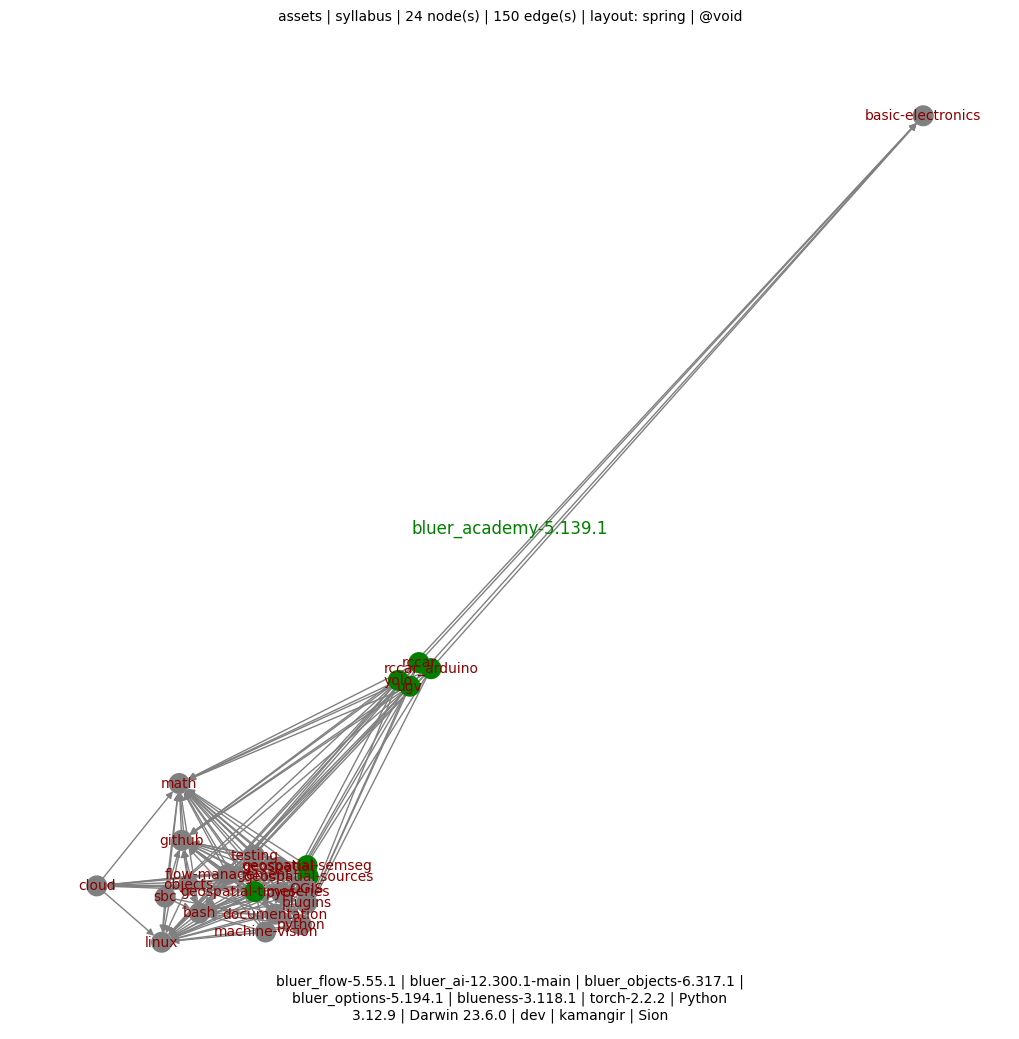
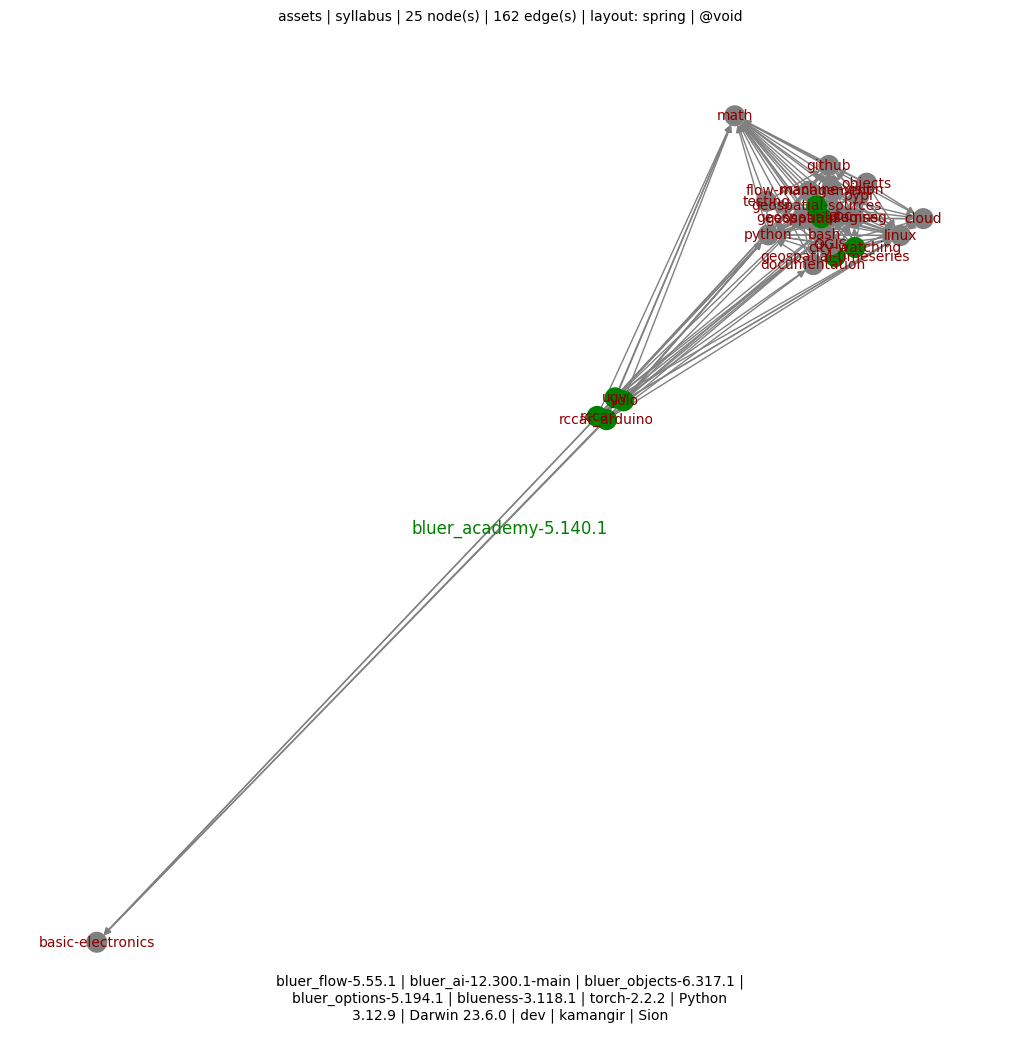
++ - kamangir/bolt#746

Changed region(s): [[0.0304, 0.0924, 0.9127, 0.924], [0.8518, 0.0924, 0.9431, 0.1232]]

diff --git a/bluer_academy/academy/syllabus/__init__.py b/bluer_academy/academy/syllabus/__init__.py
@@ -2,6 +2,7 @@ from bluer_academy.academy.classes.syllabus import Syllabus
 from bluer_academy.academy.syllabus import (
     bash,
     basic_electronics,
+    city_watching,
     cloud,
     documentation,
     flow_management,
@@ -32,6 +33,7 @@ syllabus = Syllabus(
         for module in [
             bash,
             basic_electronics,
+            city_watching,
             cloud,
             documentation,
             flow_management,

diff --git a/bluer_academy/__init__.py b/bluer_academy/__init__.py
@@ -4,7 +4,7 @@ ICON = "📐"
 
 DESCRIPTION = f"{ICON} an academy for practical AI in Iran."
 
-VERSION = "5.139.1"
+VERSION = "5.140.1"
 
 REPO_NAME = "bluer-academy"
 

diff --git a/bluer_academy/docs/academy/README.md b/bluer_academy/docs/academy/README.md
@@ -4,34 +4,35 @@
 
 ## syllabus
 
-| capstone project? | duration (hours) | duration, including requirements (hours) | depends on: | [bas...](./syllabus/basic-electronics.md) | [math](./syllabus/math.md) | [linux](./syllabus/linux.md) | [cloud](./syllabus/cloud.md) | [github](./syllabus/github.md) | [python](./syllabus/python.md) | [bash](./syllabus/bash.md) | [doc...](./syllabus/documentation.md) | [flo...](./syllabus/flow-management.md) | [mac...](./syllabus/machine-vision.md) | [obj...](./syllabus/objects.md) | [pypi](./syllabus/pypi.md) | [sbc](./syllabus/sbc.md) | [tes...](./syllabus/testing.md) | [plu...](./syllabus/plugins.md) | [rccar](./syllabus/rccar.md) | [ugv](./syllabus/ugv.md) | [geo...](./syllabus/geospatial.md) | [rcc...](./syllabus/rccar_arduino.md) | [yolo](./syllabus/yolo.md) | [QGIS](./syllabus/QGIS.md) | [geo...](./syllabus/geospatial-sources.md) | [geo...](./syllabus/geospatial-semseg.md) | [geo...](./syllabus/geospatial-timeseries.md) |
-|-|-|-|-|-|-|-|-|-|-|-|-|-|-|-|-|-|-|-|-|-|-|-|-|-|-|-|-|
-|  | 6.0 | 6.0 | [basic-electronics](./syllabus/basic-electronics.md) |  |  |  |  |  |  |  |  |  |  |  |  |  |  |  |  |  |  |  |  |  |  |  |  |
-|  | 3.0 | 3.0 | [math](./syllabus/math.md) |  |  |  |  |  |  |  |  |  |  |  |  |  |  |  |  |  |  |  |  |  |  |  |  |
-|  | 3.0 | 6.0 | [linux](./syllabus/linux.md) |  | ℹ |  |  |  |  |  |  |  |  |  |  |  |  |  |  |  |  |  |  |  |  |  |  |
-|  | 6.0 | 12.0 | [cloud](./syllabus/cloud.md) |  | ℹ | ℹ |  |  |  |  |  |  |  |  |  |  |  |  |  |  |  |  |  |  |  |  |  |
-|  | 3.0 | 9.0 | [github](./syllabus/github.md) |  | ℹ | ℹ |  |  |  |  |  |  |  |  |  |  |  |  |  |  |  |  |  |  |  |  |  |
-|  | 12.0 | 21.0 | [python](./syllabus/python.md) |  | ℹ | ℹ |  | ℹ |  |  |  |  |  |  |  |  |  |  |  |  |  |  |  |  |  |  |  |
-|  | 3.0 | 24.0 | [bash](./syllabus/bash.md) |  | ℹ | ℹ |  | ℹ | ℹ |  |  |  |  |  |  |  |  |  |  |  |  |  |  |  |  |  |  |
-|  | 3.0 | 27.0 | [documentation](./syllabus/documentation.md) |  | ℹ | ℹ |  | ℹ | ℹ | ℹ |  |  |  |  |  |  |  |  |  |  |  |  |  |  |  |  |  |
-|  | 2.0 | 32.0 | [flow-management](./syllabus/flow-management.md) |  | ℹ | ℹ | ℹ | ℹ | ℹ | ℹ |  |  |  |  |  |  |  |  |  |  |  |  |  |  |  |  |  |
-|  | 12.0 | 36.0 | [machine-vision](./syllabus/machine-vision.md) |  | ℹ | ℹ |  | ℹ | ℹ | ℹ |  |  |  |  |  |  |  |  |  |  |  |  |  |  |  |  |  |
-|  | 3.0 | 33.0 | [objects](./syllabus/objects.md) |  | ℹ | ℹ | ℹ | ℹ | ℹ | ℹ |  |  |  |  |  |  |  |  |  |  |  |  |  |  |  |  |  |
-|  | 3.0 | 27.0 | [pypi](./syllabus/pypi.md) |  | ℹ | ℹ |  | ℹ | ℹ | ℹ |  |  |  |  |  |  |  |  |  |  |  |  |  |  |  |  |  |
-|  | 3.0 | 27.0 | [sbc](./syllabus/sbc.md) |  | ℹ | ℹ |  | ℹ | ℹ | ℹ |  |  |  |  |  |  |  |  |  |  |  |  |  |  |  |  |  |
-|  | 6.0 | 30.0 | [testing](./syllabus/testing.md) |  | ℹ | ℹ |  | ℹ | ℹ | ℹ |  |  |  |  |  |  |  |  |  |  |  |  |  |  |  |  |  |
-|  | 3.0 | 36.0 | [plugins](./syllabus/plugins.md) |  | ℹ | ℹ |  | ℹ | ℹ | ℹ | ℹ |  |  |  |  |  | ℹ |  |  |  |  |  |  |  |  |  |  |
-| 📐 | 3.0 | 36.0 | [rccar](./syllabus/rccar.md) | ℹ | ℹ | ℹ |  | ℹ | ℹ | ℹ | ℹ |  |  |  |  |  |  |  |  |  |  |  |  |  |  |  |  |
-| 📐 | 12.0 | 57.0 | [ugv](./syllabus/ugv.md) | ℹ | ℹ | ℹ |  | ℹ | ℹ | ℹ |  |  | ℹ |  |  | ℹ |  |  |  |  |  |  |  |  |  |  |  |
-|  | 6.0 | 51.0 | [geospatial](./syllabus/geospatial.md) |  | ℹ | ℹ | ℹ | ℹ | ℹ | ℹ | ℹ |  |  | ℹ |  |  | ℹ | ℹ |  |  |  |  |  |  |  |  |  |
-| 📐 | 6.0 | 42.0 | [rccar_arduino](./syllabus/rccar_arduino.md) | ℹ | ℹ | ℹ |  | ℹ | ℹ | ℹ | ℹ |  |  |  |  |  |  |  | ℹ |  |  |  |  |  |  |  |  |
-| 📐 | 3.0 | 60.0 | [yolo](./syllabus/yolo.md) | ℹ | ℹ | ℹ |  | ℹ | ℹ | ℹ |  |  | ℹ |  |  | ℹ |  |  |  | ℹ |  |  |  |  |  |  |  |
-|  | 3.0 | 54.0 | [QGIS](./syllabus/QGIS.md) |  | ℹ | ℹ | ℹ | ℹ | ℹ | ℹ | ℹ |  |  | ℹ |  |  | ℹ | ℹ |  |  | ℹ |  |  |  |  |  |  |
-| 📐 | 6.0 | 60.0 | [geospatial-sources](./syllabus/geospatial-sources.md) |  | ℹ | ℹ | ℹ | ℹ | ℹ | ℹ | ℹ |  |  | ℹ |  |  | ℹ | ℹ |  |  | ℹ |  |  | ℹ |  |  |  |
-| 📐 | 6.0 | 78.0 | [geospatial-semseg](./syllabus/geospatial-semseg.md) |  | ℹ | ℹ | ℹ | ℹ | ℹ | ℹ | ℹ |  | ℹ | ℹ |  |  | ℹ | ℹ |  |  | ℹ |  |  | ℹ | ℹ |  |  |
-| 📐 | 6.0 | 80.0 | [geospatial-timeseries](./syllabus/geospatial-timeseries.md) |  | ℹ | ℹ | ℹ | ℹ | ℹ | ℹ | ℹ | ℹ | ℹ | ℹ |  |  | ℹ | ℹ |  |  | ℹ |  |  | ℹ | ℹ |  |  |
+| capstone project? | duration (hours) | duration, including requirements (hours) | depends on: | [bas...](./syllabus/basic-electronics.md) | [math](./syllabus/math.md) | [linux](./syllabus/linux.md) | [cloud](./syllabus/cloud.md) | [github](./syllabus/github.md) | [python](./syllabus/python.md) | [bash](./syllabus/bash.md) | [doc...](./syllabus/documentation.md) | [flo...](./syllabus/flow-management.md) | [mac...](./syllabus/machine-vision.md) | [obj...](./syllabus/objects.md) | [pypi](./syllabus/pypi.md) | [sbc](./syllabus/sbc.md) | [tes...](./syllabus/testing.md) | [plu...](./syllabus/plugins.md) | [rccar](./syllabus/rccar.md) | [ugv](./syllabus/ugv.md) | [geo...](./syllabus/geospatial.md) | [rcc...](./syllabus/rccar_arduino.md) | [yolo](./syllabus/yolo.md) | [QGIS](./syllabus/QGIS.md) | [cit...](./syllabus/city-watching.md) | [geo...](./syllabus/geospatial-sources.md) | [geo...](./syllabus/geospatial-semseg.md) | [geo...](./syllabus/geospatial-timeseries.md) |
+|-|-|-|-|-|-|-|-|-|-|-|-|-|-|-|-|-|-|-|-|-|-|-|-|-|-|-|-|-|
+|  | 6.0 | 6.0 | [basic-electronics](./syllabus/basic-electronics.md) |  |  |  |  |  |  |  |  |  |  |  |  |  |  |  |  |  |  |  |  |  |  |  |  |  |
+|  | 3.0 | 3.0 | [math](./syllabus/math.md) |  |  |  |  |  |  |  |  |  |  |  |  |  |  |  |  |  |  |  |  |  |  |  |  |  |
+|  | 3.0 | 6.0 | [linux](./syllabus/linux.md) |  | ℹ |  |  |  |  |  |  |  |  |  |  |  |  |  |  |  |  |  |  |  |  |  |  |  |
+|  | 6.0 | 12.0 | [cloud](./syllabus/cloud.md) |  | ℹ | ℹ |  |  |  |  |  |  |  |  |  |  |  |  |  |  |  |  |  |  |  |  |  |  |
+|  | 3.0 | 9.0 | [github](./syllabus/github.md) |  | ℹ | ℹ |  |  |  |  |  |  |  |  |  |  |  |  |  |  |  |  |  |  |  |  |  |  |
+|  | 12.0 | 21.0 | [python](./syllabus/python.md) |  | ℹ | ℹ |  | ℹ |  |  |  |  |  |  |  |  |  |  |  |  |  |  |  |  |  |  |  |  |
+|  | 3.0 | 24.0 | [bash](./syllabus/bash.md) |  | ℹ | ℹ |  | ℹ | ℹ |  |  |  |  |  |  |  |  |  |  |  |  |  |  |  |  |  |  |  |
+|  | 3.0 | 27.0 | [documentation](./syllabus/documentation.md) |  | ℹ | ℹ |  | ℹ | ℹ | ℹ |  |  |  |  |  |  |  |  |  |  |  |  |  |  |  |  |  |  |
+|  | 2.0 | 32.0 | [flow-management](./syllabus/flow-management.md) |  | ℹ | ℹ | ℹ | ℹ | ℹ | ℹ |  |  |  |  |  |  |  |  |  |  |  |  |  |  |  |  |  |  |
+|  | 12.0 | 36.0 | [machine-vision](./syllabus/machine-vision.md) |  | ℹ | ℹ |  | ℹ | ℹ | ℹ |  |  |  |  |  |  |  |  |  |  |  |  |  |  |  |  |  |  |
+|  | 3.0 | 33.0 | [objects](./syllabus/objects.md) |  | ℹ | ℹ | ℹ | ℹ | ℹ | ℹ |  |  |  |  |  |  |  |  |  |  |  |  |  |  |  |  |  |  |
+|  | 3.0 | 27.0 | [pypi](./syllabus/pypi.md) |  | ℹ | ℹ |  | ℹ | ℹ | ℹ |  |  |  |  |  |  |  |  |  |  |  |  |  |  |  |  |  |  |
+|  | 3.0 | 27.0 | [sbc](./syllabus/sbc.md) |  | ℹ | ℹ |  | ℹ | ℹ | ℹ |  |  |  |  |  |  |  |  |  |  |  |  |  |  |  |  |  |  |
+|  | 6.0 | 30.0 | [testing](./syllabus/testing.md) |  | ℹ | ℹ |  | ℹ | ℹ | ℹ |  |  |  |  |  |  |  |  |  |  |  |  |  |  |  |  |  |  |
+|  | 3.0 | 36.0 | [plugins](./syllabus/plugins.md) |  | ℹ | ℹ |  | ℹ | ℹ | ℹ | ℹ |  |  |  |  |  | ℹ |  |  |  |  |  |  |  |  |  |  |  |
+| 📐 | 3.0 | 36.0 | [rccar](./syllabus/rccar.md) | ℹ | ℹ | ℹ |  | ℹ | ℹ | ℹ | ℹ |  |  |  |  |  |  |  |  |  |  |  |  |  |  |  |  |  |
+| 📐 | 12.0 | 57.0 | [ugv](./syllabus/ugv.md) | ℹ | ℹ | ℹ |  | ℹ | ℹ | ℹ |  |  | ℹ |  |  | ℹ |  |  |  |  |  |  |  |  |  |  |  |  |
+|  | 6.0 | 51.0 | [geospatial](./syllabus/geospatial.md) |  | ℹ | ℹ | ℹ | ℹ | ℹ | ℹ | ℹ |  |  | ℹ |  |  | ℹ | ℹ |  |  |  |  |  |  |  |  |  |  |
+| 📐 | 6.0 | 42.0 | [rccar_arduino](./syllabus/rccar_arduino.md) | ℹ | ℹ | ℹ |  | ℹ | ℹ | ℹ | ℹ |  |  |  |  |  |  |  | ℹ |  |  |  |  |  |  |  |  |  |
+| 📐 | 3.0 | 60.0 | [yolo](./syllabus/yolo.md) | ℹ | ℹ | ℹ |  | ℹ | ℹ | ℹ |  |  | ℹ |  |  | ℹ |  |  |  | ℹ |  |  |  |  |  |  |  |  |
+|  | 3.0 | 54.0 | [QGIS](./syllabus/QGIS.md) |  | ℹ | ℹ | ℹ | ℹ | ℹ | ℹ | ℹ |  |  | ℹ |  |  | ℹ | ℹ |  |  | ℹ |  |  |  |  |  |  |  |
+| 📐 | 3.0 | 66.0 | [city-watching](./syllabus/city-watching.md) |  | ℹ | ℹ | ℹ | ℹ | ℹ | ℹ | ℹ |  | ℹ | ℹ |  |  | ℹ | ℹ |  |  | ℹ |  |  |  |  |  |  |  |
+| 📐 | 6.0 | 60.0 | [geospatial-sources](./syllabus/geospatial-sources.md) |  | ℹ | ℹ | ℹ | ℹ | ℹ | ℹ | ℹ |  |  | ℹ |  |  | ℹ | ℹ |  |  | ℹ |  |  | ℹ |  |  |  |  |
+| 📐 | 6.0 | 78.0 | [geospatial-semseg](./syllabus/geospatial-semseg.md) |  | ℹ | ℹ | ℹ | ℹ | ℹ | ℹ | ℹ |  | ℹ | ℹ |  |  | ℹ | ℹ |  |  | ℹ |  |  | ℹ |  | ℹ |  |  |
+| 📐 | 6.0 | 80.0 | [geospatial-timeseries](./syllabus/geospatial-timeseries.md) |  | ℹ | ℹ | ℹ | ℹ | ℹ | ℹ | ℹ | ℹ | ℹ | ℹ |  |  | ℹ | ℹ |  |  | ℹ |  |  | ℹ |  | ℹ |  |  |
 
-⏳ total duration: 122.0 hours
+⏳ total duration: 125.0 hours
 
 
 <details>
@@ -46,6 +47,6 @@
 
 |   |   |   |
 | --- | --- | --- |
-| [![image](https://github.com/kamangir/assets/raw/main/palisades/palisades-analytics-2025-01-28-09-27-20-itglyy/thumbnail-039462-378510-palisades-analytics-2025-01-28-09-27-20-itglyy.gif?raw=true)](./syllabus/geospatial-semseg.md) | [![image](https://github.com/kamangir/assets/raw/main/blue-geo/Maxar-Open-Datacube.png?raw=true)](./syllabus/geospatial-sources.md) | [![image](https://github.com/kamangir/assets/raw/main/geo-watch-2025-05-23-2ck64x/geo-watch-2025-05-23-2ck64x.gif?raw=true)](./syllabus/geospatial-timeseries.md) |
-| [![image](https://github.com/kamangir/assets2/raw/main/ravin/20250723_095155~2_1.gif?raw=true)](./syllabus/rccar.md) | [![image](https://github.com/kamangir/assets2/raw/main/ravin4/20251014_164022.jpg?raw=true)](./syllabus/rccar_arduino.md) | [![image](https://github.com/kamangir/assets2/raw/main/arzhang/VID-20250905-WA0014_1.gif?raw=true)](./syllabus/ugv.md) |
-| [![image](https://github.com/kamangir/assets/raw/main/swallow-debug-2025-09-25-13-16-59-rnm7jd/swallow-debug-2025-09-25-13-16-59-rnm7jd.gif?raw=true)](./syllabus/yolo.md) |  |  |
+| [![image](https://github.com/kamangir/assets/raw/main/vanwatch/2024-01-06-20-39-46-73614-QGIS.gif?raw=true)](./syllabus/city-watching.md) | [![image](https://github.com/kamangir/assets/raw/main/palisades/palisades-analytics-2025-01-28-09-27-20-itglyy/thumbnail-039462-378510-palisades-analytics-2025-01-28-09-27-20-itglyy.gif?raw=true)](./syllabus/geospatial-semseg.md) | [![image](https://github.com/kamangir/assets/raw/main/blue-geo/Maxar-Open-Datacube.png?raw=true)](./syllabus/geospatial-sources.md) |
+| [![image](https://github.com/kamangir/assets/raw/main/geo-watch-2025-05-23-2ck64x/geo-watch-2025-05-23-2ck64x.gif?raw=true)](./syllabus/geospatial-timeseries.md) | [![image](https://github.com/kamangir/assets2/raw/main/ravin/20250723_095155~2_1.gif?raw=true)](./syllabus/rccar.md) | [![image](https://github.com/kamangir/assets2/raw/main/ravin4/20251014_164022.jpg?raw=true)](./syllabus/rccar_arduino.md) |
+| [![image](https://github.com/kamangir/assets2/raw/main/arzhang/VID-20250905-WA0014_1.gif?raw=true)](./syllabus/ugv.md) | [![image](https://github.com/kamangir/assets/raw/main/swallow-debug-2025-09-25-13-16-59-rnm7jd/swallow-debug-2025-09-25-13-16-59-rnm7jd.gif?raw=true)](./syllabus/yolo.md) |  |

diff --git a/bluer_academy/docs/academy/syllabus/math.md b/bluer_academy/docs/academy/syllabus/math.md
@@ -7,7 +7,7 @@ includes:
 ---
 
 
-➡ required for: [linux](./linux.md), [cloud](./cloud.md), [github](./github.md), [python](./python.md), [bash](./bash.md), [documentation](./documentation.md), [flow-management](./flow-management.md), [machine-vision](./machine-vision.md), [objects](./objects.md), [pypi](./pypi.md), [sbc](./sbc.md), [testing](./testing.md), [plugins](./plugins.md), [rccar](./rccar.md), [ugv](./ugv.md), [geospatial](./geospatial.md), [rccar_arduino](./rccar_arduino.md), [yolo](./yolo.md), [QGIS](./QGIS.md), [geospatial-sources](./geospatial-sources.md), [geospatial-semseg](./geospatial-semseg.md), [geospatial-timeseries](./geospatial-timeseries.md)
+➡ required for: [linux](./linux.md), [cloud](./cloud.md), [github](./github.md), [python](./python.md), [bash](./bash.md), [documentation](./documentation.md), [flow-management](./flow-management.md), [machine-vision](./machine-vision.md), [objects](./objects.md), [pypi](./pypi.md), [sbc](./sbc.md), [testing](./testing.md), [plugins](./plugins.md), [rccar](./rccar.md), [ugv](./ugv.md), [geospatial](./geospatial.md), [rccar_arduino](./rccar_arduino.md), [yolo](./yolo.md), [QGIS](./QGIS.md), [city-watching](./city-watching.md), [geospatial-sources](./geospatial-sources.md), [geospatial-semseg](./geospatial-semseg.md), [geospatial-timeseries](./geospatial-timeseries.md)
 
 ⏳ duration (hours): 3.0 - including requirements: 3.0
 

diff --git a/bluer_academy/docs/academy/syllabus/linux.md b/bluer_academy/docs/academy/syllabus/linux.md
@@ -7,7 +7,7 @@ includes:
 
 ⬅ requires: [math](./math.md)
 
-➡ required for: [cloud](./cloud.md), [github](./github.md), [python](./python.md), [bash](./bash.md), [documentation](./documentation.md), [flow-management](./flow-management.md), [machine-vision](./machine-vision.md), [objects](./objects.md), [pypi](./pypi.md), [sbc](./sbc.md), [testing](./testing.md), [plugins](./plugins.md), [rccar](./rccar.md), [ugv](./ugv.md), [geospatial](./geospatial.md), [rccar_arduino](./rccar_arduino.md), [yolo](./yolo.md), [QGIS](./QGIS.md), [geospatial-sources](./geospatial-sources.md), [geospatial-semseg](./geospatial-semseg.md), [geospatial-timeseries](./geospatial-timeseries.md)
+➡ required for: [cloud](./cloud.md), [github](./github.md), [python](./python.md), [bash](./bash.md), [documentation](./documentation.md), [flow-management](./flow-management.md), [machine-vision](./machine-vision.md), [objects](./objects.md), [pypi](./pypi.md), [sbc](./sbc.md), [testing](./testing.md), [plugins](./plugins.md), [rccar](./rccar.md), [ugv](./ugv.md), [geospatial](./geospatial.md), [rccar_arduino](./rccar_arduino.md), [yolo](./yolo.md), [QGIS](./QGIS.md), [city-watching](./city-watching.md), [geospatial-sources](./geospatial-sources.md), [geospatial-semseg](./geospatial-semseg.md), [geospatial-timeseries](./geospatial-timeseries.md)
 
 ⏳ duration (hours): 3.0 - including requirements: 6.0
 

diff --git a/bluer_academy/docs/academy/syllabus/github.md b/bluer_academy/docs/academy/syllabus/github.md
@@ -10,7 +10,7 @@ includes:
 
 ⬅ requires: [linux](./linux.md), [math](./math.md)
 
-➡ required for: [python](./python.md), [bash](./bash.md), [documentation](./documentation.md), [flow-management](./flow-management.md), [machine-vision](./machine-vision.md), [objects](./objects.md), [pypi](./pypi.md), [sbc](./sbc.md), [testing](./testing.md), [plugins](./plugins.md), [rccar](./rccar.md), [ugv](./ugv.md), [geospatial](./geospatial.md), [rccar_arduino](./rccar_arduino.md), [yolo](./yolo.md), [QGIS](./QGIS.md), [geospatial-sources](./geospatial-sources.md), [geospatial-semseg](./geospatial-semseg.md), [geospatial-timeseries](./geospatial-timeseries.md)
+➡ required for: [python](./python.md), [bash](./bash.md), [documentation](./documentation.md), [flow-management](./flow-management.md), [machine-vision](./machine-vision.md), [objects](./objects.md), [pypi](./pypi.md), [sbc](./sbc.md), [testing](./testing.md), [plugins](./plugins.md), [rccar](./rccar.md), [ugv](./ugv.md), [geospatial](./geospatial.md), [rccar_arduino](./rccar_arduino.md), [yolo](./yolo.md), [QGIS](./QGIS.md), [city-watching](./city-watching.md), [geospatial-sources](./geospatial-sources.md), [geospatial-semseg](./geospatial-semseg.md), [geospatial-timeseries](./geospatial-timeseries.md)
 
 ⏳ duration (hours): 3.0 - including requirements: 9.0
 

diff --git a/bluer_academy/docs/academy/syllabus/python.md b/bluer_academy/docs/academy/syllabus/python.md
@@ -12,7 +12,7 @@ includes:
 
 ⬅ requires: [github](./github.md), [linux](./linux.md), [math](./math.md)
 
-➡ required for: [bash](./bash.md), [documentation](./documentation.md), [flow-management](./flow-management.md), [machine-vision](./machine-vision.md), [objects](./objects.md), [pypi](./pypi.md), [sbc](./sbc.md), [testing](./testing.md), [plugins](./plugins.md), [rccar](./rccar.md), [ugv](./ugv.md), [geospatial](./geospatial.md), [rccar_arduino](./rccar_arduino.md), [yolo](./yolo.md), [QGIS](./QGIS.md), [geospatial-sources](./geospatial-sources.md), [geospatial-semseg](./geospatial-semseg.md), [geospatial-timeseries](./geospatial-timeseries.md)
+➡ required for: [bash](./bash.md), [documentation](./documentation.md), [flow-management](./flow-management.md), [machine-vision](./machine-vision.md), [objects](./objects.md), [pypi](./pypi.md), [sbc](./sbc.md), [testing](./testing.md), [plugins](./plugins.md), [rccar](./rccar.md), [ugv](./ugv.md), [geospatial](./geospatial.md), [rccar_arduino](./rccar_arduino.md), [yolo](./yolo.md), [QGIS](./QGIS.md), [city-watching](./city-watching.md), [geospatial-sources](./geospatial-sources.md), [geospatial-semseg](./geospatial-semseg.md), [geospatial-timeseries](./geospatial-timeseries.md)
 
 ⏳ duration (hours): 12.0 - including requirements: 21.0
 

diff --git a/bluer_academy/docs/academy/syllabus/bash.md b/bluer_academy/docs/academy/syllabus/bash.md
@@ -10,7 +10,7 @@ includes:
 
 ⬅ requires: [github](./github.md), [linux](./linux.md), [math](./math.md), [python](./python.md)
 
-➡ required for: [documentation](./documentation.md), [flow-management](./flow-management.md), [machine-vision](./machine-vision.md), [objects](./objects.md), [pypi](./pypi.md), [sbc](./sbc.md), [testing](./testing.md), [plugins](./plugins.md), [rccar](./rccar.md), [ugv](./ugv.md), [geospatial](./geospatial.md), [rccar_arduino](./rccar_arduino.md), [yolo](./yolo.md), [QGIS](./QGIS.md), [geospatial-sources](./geospatial-sources.md), [geospatial-semseg](./geospatial-semseg.md), [geospatial-timeseries](./geospatial-timeseries.md)
+➡ required for: [documentation](./documentation.md), [flow-management](./flow-management.md), [machine-vision](./machine-vision.md), [objects](./objects.md), [pypi](./pypi.md), [sbc](./sbc.md), [testing](./testing.md), [plugins](./plugins.md), [rccar](./rccar.md), [ugv](./ugv.md), [geospatial](./geospatial.md), [rccar_arduino](./rccar_arduino.md), [yolo](./yolo.md), [QGIS](./QGIS.md), [city-watching](./city-watching.md), [geospatial-sources](./geospatial-sources.md), [geospatial-semseg](./geospatial-semseg.md), [geospatial-timeseries](./geospatial-timeseries.md)
 
 ⏳ duration (hours): 3.0 - including requirements: 24.0
 

diff --git a/README.md b/README.md
@@ -15,4 +15,4 @@ pip install bluer-academy
 
 [![pylint](https://github.com/kamangir/bluer-academy/actions/workflows/pylint.yml/badge.svg)](https://github.com/kamangir/bluer-academy/actions/workflows/pylint.yml) [![pytest](https://github.com/kamangir/bluer-academy/actions/workflows/pytest.yml/badge.svg)](https://github.com/kamangir/bluer-academy/actions/workflows/pytest.yml) [![bashtest](https://github.com/kamangir/bluer-academy/actions/workflows/bashtest.yml/badge.svg)](https://github.com/kamangir/bluer-academy/actions/workflows/bashtest.yml) [![PyPI version](https://img.shields.io/pypi/v/bluer-academy.svg)](https://pypi.org/project/bluer-academy/) [![PyPI - Downloads](https://img.shields.io/pypi/dd/bluer-academy)](https://pypistats.org/packages/bluer-academy)
 
-built by 🌀 [`bluer README`](https://github.com/kamangir/bluer-objects/tree/main/bluer_objects/README), based on 📐 [`bluer_academy-5.139.1`](https://github.com/kamangir/bluer-academy).
+built by 🌀 [`bluer README`](https://github.com/kamangir/bluer-objects/tree/main/bluer_objects/README), based on 📐 [`bluer_academy-5.140.1`](https://github.com/kamangir/bluer-academy).

diff --git a/bluer_academy/docs/academy/syllabus/documentation.md b/bluer_academy/docs/academy/syllabus/documentation.md
@@ -10,7 +10,7 @@ includes:
 
 ⬅ requires: [bash](./bash.md), [github](./github.md), [linux](./linux.md), [math](./math.md), [python](./python.md)
 
-➡ required for: [plugins](./plugins.md), [rccar](./rccar.md), [geospatial](./geospatial.md), [rccar_arduino](./rccar_arduino.md), [QGIS](./QGIS.md), [geospatial-sources](./geospatial-sources.md), [geospatial-semseg](./geospatial-semseg.md), [geospatial-timeseries](./geospatial-timeseries.md)
+➡ required for: [plugins](./plugins.md), [rccar](./rccar.md), [geospatial](./geospatial.md), [rccar_arduino](./rccar_arduino.md), [QGIS](./QGIS.md), [city-watching](./city-watching.md), [geospatial-sources](./geospatial-sources.md), [geospatial-semseg](./geospatial-semseg.md), [geospatial-timeseries](./geospatial-timeseries.md)
 
 ⏳ duration (hours): 3.0 - including requirements: 27.0
 

diff --git a/bluer_academy/docs/academy/syllabus/geospatial.md b/bluer_academy/docs/academy/syllabus/geospatial.md
@@ -10,7 +10,7 @@ includes:
 
 ⬅ requires: [bash](./bash.md), [cloud](./cloud.md), [documentation](./documentation.md), [github](./github.md), [linux](./linux.md), [math](./math.md), [objects](./objects.md), [plugins](./plugins.md), [python](./python.md), [testing](./testing.md)
 
-➡ required for: [QGIS](./QGIS.md), [geospatial-sources](./geospatial-sources.md), [geospatial-semseg](./geospatial-semseg.md), [geospatial-timeseries](./geospatial-timeseries.md)
+➡ required for: [QGIS](./QGIS.md), [city-watching](./city-watching.md), [geospatial-sources](./geospatial-sources.md), [geospatial-semseg](./geospatial-semseg.md), [geospatial-timeseries](./geospatial-timeseries.md)
 
 ⏳ duration (hours): 6.0 - including requirements: 51.0
 

diff --git a/bluer_academy/docs/academy/syllabus/cloud.md b/bluer_academy/docs/academy/syllabus/cloud.md
@@ -9,7 +9,7 @@ includes:
 
 ⬅ requires: [linux](./linux.md), [math](./math.md)
 
-➡ required for: [flow-management](./flow-management.md), [objects](./objects.md), [geospatial](./geospatial.md), [QGIS](./QGIS.md), [geospatial-sources](./geospatial-sources.md), [geospatial-semseg](./geospatial-semseg.md), [geospatial-timeseries](./geospatial-timeseries.md)
+➡ required for: [flow-management](./flow-management.md), [objects](./objects.md), [geospatial](./geospatial.md), [QGIS](./QGIS.md), [city-watching](./city-watching.md), [geospatial-sources](./geospatial-sources.md), [geospatial-semseg](./geospatial-semseg.md), [geospatial-timeseries](./geospatial-timeseries.md)
 
 ⏳ duration (hours): 6.0 - including requirements: 12.0
 
